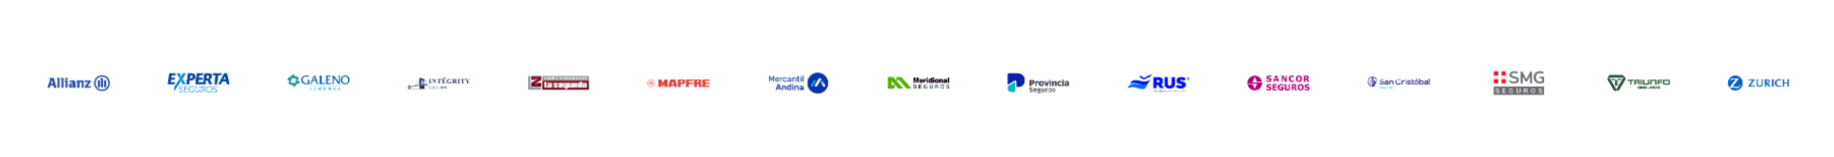
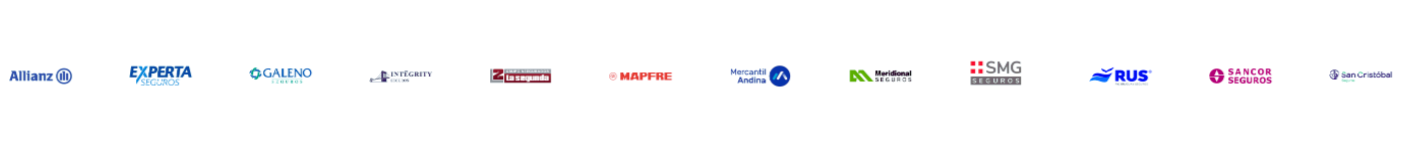
agrego informacion y corrijo media Q

Changed region(s): [[0.0938, 0.3822, 1.0, 0.6115], [0.0, 0.4331, 0.0625, 0.586]]

diff --git a/css/estilos.css b/css/estilos.css
@@ -12,6 +12,7 @@
 }
 
 /* INICIO CABECERA */
+
 header{
     background-image: url("../img/logo_t.png");
     background-position: left;
@@ -72,11 +73,7 @@ header{
 
 /* INICIO CUERPO */
 
-.barra__companias{
-    height: auto;
-    width: 100%;
-    position: relative;
-}
+/* INDEX */
 
 h1{
     font-size: 23px;
@@ -111,10 +108,6 @@ h4{
 p{
     font-size: 25px;
     font-family: 'Poppins', sans-serif;
-
-}
-.form-label{
-    padding-top: 50px;
 }
 
 .catpopulares a{
@@ -136,6 +129,7 @@ p{
 .catpopulares ul li{
     list-style: none;
 }
+
 /* INICIO GRID */
 
 .contenedor{
@@ -183,38 +177,213 @@ border:2px solid green;
     height: 70px;
     margin-bottom: 8px;
 }
-.prueba{
+.flia{
     height: 70px;
-    /* padding:7px; */
+    padding:7px;
     margin-bottom: 8px;
-
 }
+
 .caja6{
     grid-area: caja6;
-    margin-top: 20px;
+    margin-block: 20px;
 }
+
+
+.barra__companias{
+    height: auto;
+    width: 85%;
+    position: relative;
+    
+
+}
+
+.intro{
+    display: flex;
+    background-image: url("../img/cars/car_frente_rojo.jpg");
+    
+}
+
+.carfrente{
+    height: 200px;
+    padding-left: 10px;
+    margin: 5px;
+}
+
+.tit_intro{
+text-align: center;
+
+}
+
+.parrafo_intro{
+    display: flex;
+    font-size: 18px;
+    font-family: Verdana, Geneva, Tahoma, sans-serif;
+    margin: 20px;
+}
+
+/* CONTACTO */
+.form-label{
+    padding-top: 50px;
+}
+
 
 /* INICIO PIE DE PAGINA */
 
 footer{
     background-color:rgb(0, 37, 64);
     color: white;
-    font-size: 10px;
-    height: 250px;
-    padding-block: 2px;
+    font-size: 11px;
+    height: auto;
+    padding-block: 10px;
     text-align: center;
 }
 
-.empresa ul li{
+.footer_foo{
+    display: flex;
+    margin-top: 10px;
+    gap: 70px;
     list-style: none;
-    text-align: center;
+    justify-content: center;
+}
+
+.empresa ul li{
+    display: flex;
+    list-style: none;
 } 
 
 .informacion ul li{
+    display: flex;
     list-style: none;
-
 } 
 
 .seguinos ul li{
+    display: flex;
     list-style: none;
+}
+
+.final_footer{
+    margin-top: 20px;
+    font-size: 12px;
+    font-family: Verdana, Geneva, Tahoma, sans-serif;
+}
+
+/* MEDIAS QUERIES */
+@media only screen and (min-width: 320px){
+    header{
+        background-position: left;
+        background-color:rgba(255, 255, 255, 0);
+        background-repeat:no-repeat;
+        background-size: 70px;
+        /* padding-block: 75px; */
+        font-size: 10px;
+        position: relative;
+        top: 0px;
+    }
+
+    .barra{
+        float: right;
+        text-transform: capitalize;
+        list-style: none;
+        margin-right: 25px;
+        }
+
+    .contenedor{
+        /* border: 2px solid red; */
+            margin-left: 10px;
+            width: 99%;
+            height: auto;
+            display: grid;
+            grid-template-columns: repeat(1fr);
+            grid-template-rows: repeat(6 1fr);
+            grid-template-areas:
+            
+            "caja1"
+            "caja2"
+            "caja3"
+            "caja4"
+            "caja5"
+            "caja6";
+        }
+
+        .caja1{
+            grid-area: caja1;
+        }
+
+        .caja2{
+            grid-area: caja2;
+            text-align: center;
+            /* padding-bottom: 20px; */
+            /* border: 3px solid rgb(9, 255, 0); */
+            font-size: 10px;
+            margin-inline-end:50px;
+        }
+        .caja3{
+            grid-area: caja3;
+            /* text-align: center; */
+            background-repeat: no-repeat;
+            /* background-size: cover; */
+            /* background-position: center; */
+            /* margin-inline-end:50px; */
+        }
+        .caja4{
+            grid-area: caja4;
+            text-align: center;
+        }
+        .caja5{
+            grid-area: caja5;
+            text-align: center;
+            height: 70px;
+            margin-bottom: 8px;
+        }
+        .flia{
+            height: 70px;
+            padding:7px;
+            margin-bottom: 8px;
+        }
+        
+        .caja6{
+            grid-area: caja6;
+            margin-block: 20px;
+        }
+
+        h1{
+            font-size: 20px;
+            text-align: center;
+        }
+
+        .intro{
+            display: flex;
+            flex-direction: column;
+            background-image: url("../img/cars/car_show.jpg");
+            background-size: 50%;
+            background-position: top;
+            background-repeat:no-repeat;
+            margin-right: 20px;
+        }
+        .tit_intro{
+            margin-top: 80px;
+            padding-top: 10px;
+        }
+        .parrafo_intro{
+            margin-top: 10px
+            text-align: center;
+            font-size: 12px;
+        
+        }
+
+        .footer_foo{
+            display: flex;
+            flex-direction: column;
+        }
+
+        .empresa ul li{
+            justify-content: center;
+        }
+        .informacion ul li{
+            justify-content: center;
+        }
+        .seguinos ul li{
+            justify-content: center;
+        }
+
 }

diff --git a/index.html b/index.html
@@ -45,8 +45,8 @@
       <div class="carousel-item active">
         <img src="./img/camiones_blacks.png" alt="Camiones" class="d-block" style="width:100%">
         <div class="carousel-caption">
-          <h4>Trabajá Tranquilo, Nosotros lo cuidamos</h4>
-          <p>Cuidamos tu tranquilidad</p>
+          <h4>Trabajá Tranquilo</h4>
+          <p>Nosotros los cuidamos</p>
         </div>
       </div>
       <div class="carousel-item">
@@ -112,7 +112,7 @@
         <nav class="catpopulares">
         <ul>
             <li>
-                <img class="prueba" src="img/familia.png" alt="auto" width="auto" height="40px">
+                <img class="flia" src="img/familia.png" alt="auto" width="auto" height="40px">
                 <a href="pages/cobertura.html">vida</a>
             </li>
         </ul>
@@ -122,48 +122,55 @@
 
         <img class="barra__companias" src="img/barra_companias.png" alt="barra_companias"></div>
 </div>
-<h1>Por que elegirnos</h1>
-<p>Montenegro Seguros, contamos con presencia y trayectoria en mas de 12 aseguradoras de primer nivel. Te brindamos un amplio abanico de soluciones para tus seguros en las compañías Nº1 del país. Porque sabemos que cada cliente es único, por eso la atención es personalizada. Sos bienvenido/a.</p>
+
+<div class="intro">
+    <article class="artic_intro">
+    <h1 class="tit_intro">¿Por que elegirnos?</h1>
+        <p class="parrafo_intro">En Montenegro Seguros, contamos con presencia y trayectoria en mas de 12 aseguradoras de primer nivel. Te brindamos un amplio abanico de soluciones para tus seguros en las compañías Nº1 del país. Porque sabemos que cada cliente es único, por eso la atención es personalizada. Sos bienvenido/a.</p>
+</article>
+</div>
 
 
 <!-- FIN CUERPO -->
 
 <footer>
 
-    <!-- <div class="piepagina"></div>
-        <div class="caja__a"></div>
-        <div class="caja__a"></div>
-        <div class="caja__a"></div> -->
+<div class="footer_foo">
+    <article class="empresa">
+        <h3>La Empresa</h3>
+        <nav>
+            <ul>
+                <li> <a href="#"></a>Acerca de</li>
+                <li> <a href="#"></a>Alianzas</li>
+                <li> <a href="#"></a>Nuestro Equipo</li>
+                <li> <a href="#"></a>Contacto</li>
+            </ul>
+        </nav>
+    </article>
 
-<div>
-    <h3>La Empresa</h3>
-    <nav class="empresa">
-        <ul>
-            <li> <a href="#"></a>Acerca de</li>
-            <li> <a href="#"></a>Alianzas</li>
-            <li> <a href="#"></a>Nuestro Equipo</li>
-            <li> <a href="#"></a>Contacto</li>
-        </ul>
-    </nav>
+    <article>
+        <nav class="informacion">
+                <h3>Mas Información</h3>
+                <ul>
+                    <li> <a href="#"></a>Preguntas Frecuentes</li>
+                    <li> <a href="#"></a>Politica de Privacidad</li>
+                </ul>
+            </nav>
+    </article>
 
-    <h3>Mas Información</h3>
-    <nav class="informacion">
-        <ul>
-            <li> <a href="#"></a>Preguntas Frecuentes</li>
-            <li> <a href="#"></a>Politica de Privacidad</li>
-        </ul>
-    </nav>
-
-    <h3>Seguinos</h3>
-    <nav class="seguinos">
-        <ul>
-            <li> <a href="#"></a>Instagram</li>
-            <li> <a href="#"></a>Facebook</li>
-            <li> <a href="#"></a>Twitter</li>
-        </ul>
-    </nav>
+    <article>
+        <nav class="seguinos">
+            <h3>Seguinos</h3>
+                <ul>
+                    <li> <a href="#"></a>Instagram</li>
+                    <li> <a href="#"></a>Facebook</li>
+                    <li> <a href="#"></a>Twitter</li>
+                </ul>
+        </nav>
+    </article>
+    
 </div>
-<p>Organismo de control • www.argentina.gob.ar/ssn</p>
+<p class="final_footer">Organismo de control • www.argentina.gob.ar/ssn</p>
     </footer>
 
 <!-- INICIO JS SEPARATE -->
